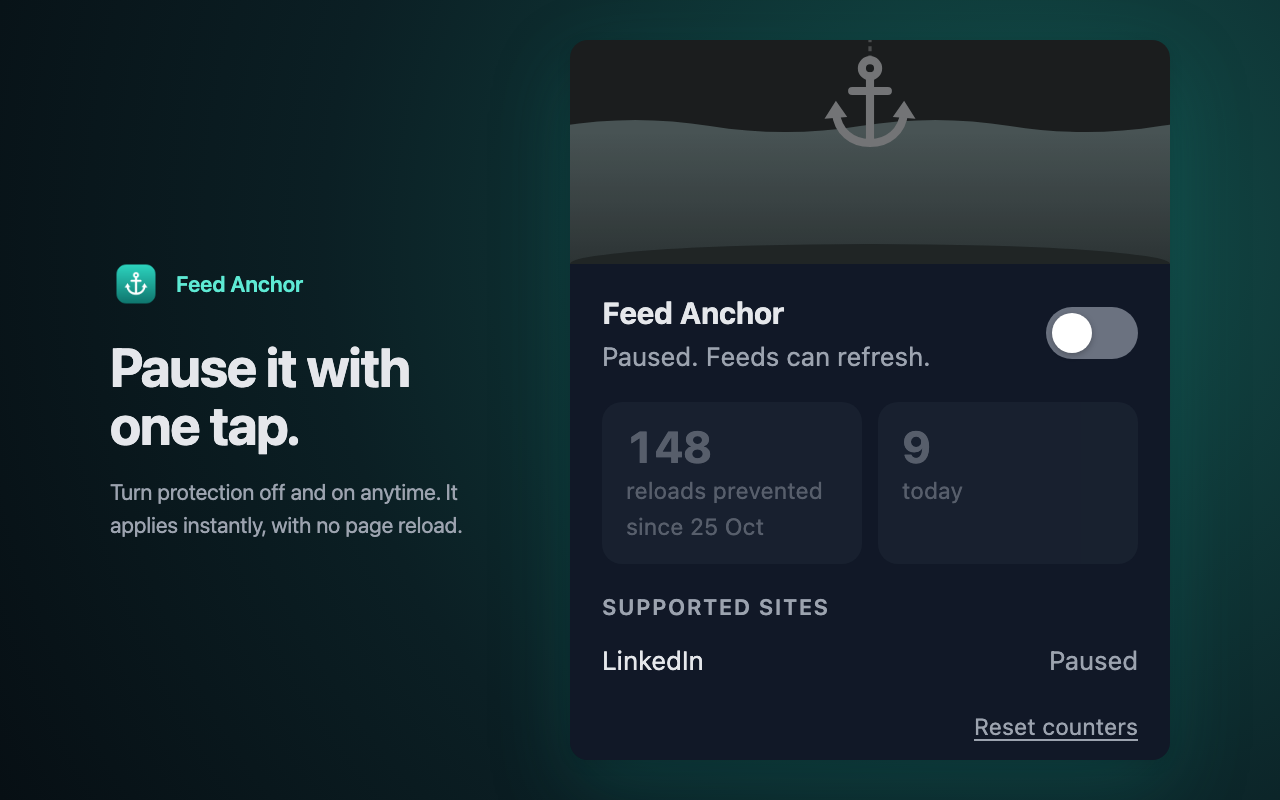
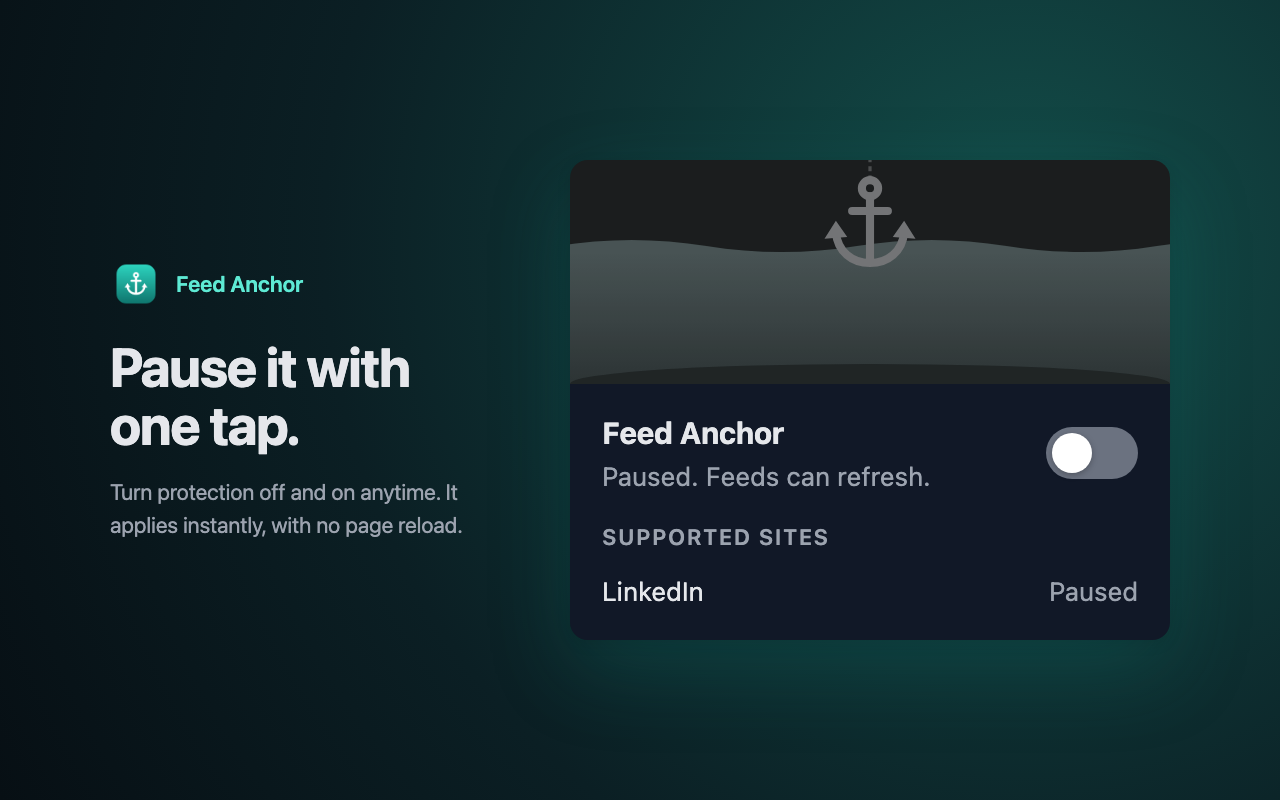
Remove counters: they counted tab returns, not actual reloads
The extension can't tell whether a site would have reloaded, so the
'reloads prevented' number was misleading. The popup now shows only the
on/off switch and protected tabs; the badge shows OFF while paused.
Only the on/off setting is stored. Old stats are cleared on update.

diff --git a/src/background.js b/src/background.js
@@ -1,57 +1,18 @@
 importScripts("sites.js");
 
-const BRAND = "#0f766e";
 const MATCHES = SITES.map((s) => s.match);
-
-const fresh = () => ({ since: Date.now(), returns: 0, byDay: {} });
-const today = () => new Date().toLocaleDateString("en-CA");
 
 async function isEnabled() {
   const { enabled } = await chrome.storage.local.get("enabled");
   return enabled !== false;
 }
 
-// Serialize writes so quick events don't overwrite each other
-let queue = Promise.resolve();
-function mutate(fn) {
-  queue = queue.then(async () => {
-    const { stats = fresh() } = await chrome.storage.local.get("stats");
-    fn(stats);
-    const days = Object.keys(stats.byDay).sort();
-    while (days.length > 30) delete stats.byDay[days.shift()];
-    await chrome.storage.local.set({ stats });
-  }).catch(console.error);
-  return queue;
-}
-
+// The badge only appears while paused, as a reminder that protection is off
 async function updateBadge() {
-  const [{ stats }, enabled] = await Promise.all([chrome.storage.local.get("stats"), isEnabled()]);
-  if (!enabled) {
-    await chrome.action.setBadgeText({ text: "OFF" });
-    await chrome.action.setBadgeBackgroundColor({ color: "#9ca3af" });
-    return;
-  }
-  const n = stats ? stats.returns : 0;
-  await chrome.action.setBadgeText({ text: !n ? "" : n > 999 ? "1k+" : String(n) });
-  await chrome.action.setBadgeBackgroundColor({ color: BRAND });
+  const on = await isEnabled();
+  await chrome.action.setBadgeText({ text: on ? "" : "OFF" });
+  await chrome.action.setBadgeBackgroundColor({ color: "#9ca3af" });
 }
-
-chrome.runtime.onMessage.addListener((msg, sender, sendResponse) => {
-  if (msg.kind === "return") {
-    isEnabled().then((on) => {
-      if (!on) return;
-      mutate((s) => {
-        s.returns++;
-        const d = today();
-        s.byDay[d] = (s.byDay[d] || 0) + 1;
-      });
-    });
-  } else if (msg.kind === "reset") {
-    queue = queue.then(() => chrome.storage.local.set({ stats: fresh() }));
-    queue.then(() => sendResponse({ ok: true }));
-    return true;
-  }
-});
 
 // Keep Chrome's Memory Saver from unloading supported tabs while active
 function setDiscardable(tab, discardable) {
@@ -72,9 +33,10 @@ chrome.tabs.onUpdated.addListener(async (tabId, info, tab) => {
 });
 
 chrome.storage.onChanged.addListener((changes, area) => {
-  if (area !== "local") return;
-  if (changes.enabled) applyToAllTabs();
-  if (changes.enabled || changes.stats) updateBadge();
+  if (area === "local" && changes.enabled) {
+    applyToAllTabs();
+    updateBadge();
+  }
 });
 
 async function init() {
@@ -82,4 +44,8 @@ async function init() {
   await updateBadge();
 }
 chrome.runtime.onStartup.addListener(init);
-chrome.runtime.onInstalled.addListener(init);
+chrome.runtime.onInstalled.addListener(async () => {
+  // Counters from earlier versions are no longer used
+  await chrome.storage.local.remove("stats");
+  await init();
+});

diff --git a/src/popup.js b/src/popup.js
@@ -12,9 +12,7 @@ function showState(on) {
   document.body.classList.toggle("paused", !on);
   toggle.setAttribute("aria-checked", String(on));
   toggle.setAttribute("aria-label", on ? "Protection on" : "Protection paused");
-  $("status").textContent = on
-    ? "Keeps your place in the feed."
-    : "Paused. Feeds can refresh.";
+  $("status").textContent = on ? "Keeps your place in the feed." : "Paused. Feeds can refresh.";
 }
 
 // Restart a CSS animation class on an element
@@ -36,19 +34,7 @@ anchor.addEventListener("animationend", (e) => {
   if (e.animationName === "drop" || e.animationName === "lift") anchor.classList.remove("drop", "lift");
 });
 
-async function renderStats() {
-  const { stats } = await chrome.storage.local.get("stats");
-  const s = stats || { since: Date.now(), returns: 0, byDay: {} };
-  const todayKey = new Date().toLocaleDateString("en-CA");
-  const since = new Date(s.since).toLocaleDateString(undefined, { month: "short", day: "numeric" });
-
-  $("returns").textContent = s.returns.toLocaleString();
-  $("today").textContent = ((s.byDay || {})[todayKey] || 0).toLocaleString();
-  $("returns-label").textContent = `reloads prevented since ${since}`;
-}
-
 async function renderSites() {
-  const list = $("sites");
   const rows = await Promise.all(
     SITES.map(async (site) => {
       const tabs = await chrome.tabs.query({ url: site.match });
@@ -58,7 +44,7 @@ async function renderSites() {
       return { name: site.name, text, on: enabled && tabs.length > 0 };
     })
   );
-  list.replaceChildren(
+  $("sites").replaceChildren(
     ...rows.map(({ name, text, on }) => {
       const li = document.createElement("li");
       const label = document.createElement("span");
@@ -80,28 +66,10 @@ toggle.addEventListener("click", async () => {
   await chrome.storage.local.set({ enabled });
 });
 
-$("reset").addEventListener("click", () => {
-  $("reset").hidden = true;
-  $("confirm").hidden = false;
-});
-$("reset-no").addEventListener("click", () => {
-  $("confirm").hidden = true;
-  $("reset").hidden = false;
-});
-$("reset-yes").addEventListener("click", async () => {
-  await chrome.runtime.sendMessage({ kind: "reset" });
-  $("confirm").hidden = true;
-  $("reset").hidden = false;
-});
-
-chrome.storage.onChanged.addListener((changes, area) => {
-  if (area === "local" && changes.stats) renderStats();
-});
-
 (async () => {
   const stored = await chrome.storage.local.get("enabled");
   enabled = stored.enabled !== false;
   showState(enabled); // no animation on open
   requestAnimationFrame(() => requestAnimationFrame(() => document.body.classList.remove("init")));
-  await Promise.all([renderStats(), renderSites()]);
+  await renderSites();
 })();

diff --git a/src/popup.html b/src/popup.html
@@ -170,25 +170,13 @@
   .switch[aria-checked="false"]::after { left: 3px; }
   .switch:focus-visible { outline: 2px solid var(--brand-strong); outline-offset: 2px; }
 
-  .stats { display: flex; gap: 8px; margin-bottom: 14px; transition: opacity .3s ease; }
-  .paused .stats { opacity: .5; }
-  .card { flex: 1; background: var(--card); border-radius: 10px; padding: 10px 12px; }
-  .card b { display: block; font-size: 22px; line-height: 1.1; color: var(--brand); font-variant-numeric: tabular-nums; }
-  .paused .card b { color: var(--muted); }
-  .card span { font-size: 11.5px; color: var(--muted); }
-
   h2 { font-size: 11px; text-transform: uppercase; letter-spacing: .06em; color: var(--muted); margin: 0 0 4px; font-weight: 600; }
-  ul { list-style: none; margin: 0 0 10px; padding: 0; }
+  ul { list-style: none; margin: 0; padding: 0; }
   li { display: flex; justify-content: space-between; padding: 6px 0; border-bottom: 1px solid var(--line); }
   li:last-child { border-bottom: 0; }
   li .state { color: var(--muted); }
   li .state.on { color: var(--brand); }
 
-  footer { display: flex; justify-content: flex-end; gap: 6px; font-size: 11.5px; color: var(--muted); }
-  .link { background: none; border: 0; padding: 0; font: inherit; color: var(--muted); cursor: pointer; text-decoration: underline; text-underline-offset: 2px; }
-  .link:hover { color: var(--text); }
-  .link.danger { color: #dc2626; }
-  [hidden] { display: none !important; }
   .init, .init * { transition: none !important; }
 </style>
 </head>
@@ -224,21 +212,8 @@
       <button class="switch" id="toggle" role="switch" aria-checked="true" aria-label="Protection on"></button>
     </div>
 
-    <div class="stats">
-      <div class="card"><b id="returns">0</b><span id="returns-label">reloads prevented</span></div>
-      <div class="card"><b id="today">0</b><span>today</span></div>
-    </div>
-
     <h2>Supported sites</h2>
     <ul id="sites"></ul>
-
-    <footer>
-      <button class="link" id="reset">Reset counters</button>
-      <span id="confirm" hidden>Reset counters?
-        <button class="link danger" id="reset-yes">Yes</button> ·
-        <button class="link" id="reset-no">No</button>
-      </span>
-    </footer>
   </main>
 
   <script src="sites.js"></script>

diff --git a/src/inject.js b/src/inject.js
@@ -14,17 +14,10 @@
   const realHasFocus = proto.hasFocus;
 
   const realState = () => {
-    try { return original.visibilityState.call(document); } catch (e) { return "unknown"; }
+    try { return original.visibilityState.call(document); } catch (e) { return "visible"; }
   };
 
-  const isTop = window === window.top;
   let active = true;
-  let lastState = realState();
-
-  // Only the main page reports, so embedded frames don't create duplicates
-  const sendReturn = () => {
-    if (isTop) window.postMessage({ __feedAnchor: "event", type: "return" }, location.origin);
-  };
 
   // Report visible/focused while active; pass through the real values while paused
   const fake = { hidden: false, webkitHidden: false, visibilityState: "visible", webkitVisibilityState: "visible" };
@@ -45,15 +38,7 @@
 
   // Swallow visibility events before the site's listeners see them
   const onVisibility = (e) => {
-    let cameBack = false;
-    if (e.type === "visibilitychange") {
-      const now = realState();
-      cameBack = lastState === "hidden" && now === "visible";
-      lastState = now;
-    }
-    if (!active) return;
-    e.stopImmediatePropagation();
-    if (cameBack) sendReturn();
+    if (active) e.stopImmediatePropagation();
   };
   for (const type of ["visibilitychange", "webkitvisibilitychange"]) {
     window.addEventListener(type, onVisibility, true);
@@ -71,6 +56,5 @@
   window.addEventListener("message", (e) => {
     if (e.source !== window || !e.data || e.data.__feedAnchor !== "state") return;
     active = e.data.active !== false;
-    lastState = realState();
   });
 })();

diff --git a/src/bridge.js b/src/bridge.js
@@ -1,5 +1,4 @@
-// Runs in the extension's isolated world. Passes the on/off setting to
-// inject.js and forwards "you came back to the tab" events to the background.
+// Runs in the extension's isolated world. Passes the on/off setting to inject.js.
 (() => {
   const postState = (enabled) =>
     window.postMessage({ __feedAnchor: "state", active: enabled !== false }, location.origin);
@@ -12,13 +11,4 @@
   } catch (err) {
     // Extension was reloaded; refresh the page to reconnect
   }
-
-  window.addEventListener("message", (e) => {
-    if (e.source !== window || !e.data || e.data.__feedAnchor !== "event") return;
-    try {
-      chrome.runtime.sendMessage({ kind: "return" }).catch(() => {});
-    } catch (err) {
-      // Extension was reloaded; refresh the page to reconnect
-    }
-  });
 })();

diff --git a/store/preview/stub.js b/store/preview/stub.js
@@ -1,14 +1,9 @@
 // Fake chrome.* API so popup.html can be rendered outside the extension
-// for store screenshots. Configure with ?enabled=0&returns=N&today=N&tabs=N&frame=drop:0.3
+// for store screenshots. Configure with ?enabled=0&tabs=N&frame=drop:0.3
 (() => {
   const q = new URLSearchParams(location.search);
   const num = (k, d) => (q.has(k) ? Number(q.get(k)) : d);
-  const since = Date.now() - 12 * 86400000;
-  const todayKey = new Date().toLocaleDateString("en-CA");
-  const data = {
-    enabled: q.get("enabled") !== "0",
-    stats: { since, returns: num("returns", 148), byDay: { [todayKey]: num("today", 9) } }
-  };
+  const data = { enabled: q.get("enabled") !== "0" };
   const pick = (k) => (typeof k === "string" ? { [k]: data[k] } : { ...data });
   window.chrome = {
     storage: {

diff --git a/store/listing.md b/store/listing.md
@@ -21,7 +21,7 @@ HOW IT WORKS
 • On supported sites, the page sees the tab as always visible and focused, so it has no reason to refresh.
 • Chrome's Memory Saver won't unload those tabs in the background.
 • Pause or resume with one tap. It applies instantly, with no page reload.
-• See how many reloads were prevented, in total and today.
+• See at a glance which tabs are protected.
 
 SUPPORTED SITES
 • LinkedIn
@@ -50,9 +50,9 @@ Stops supported social sites from automatically refreshing the feed when the use
 
 **Permission justifications:**
 
-- `storage` — Saves the user's on/off setting and local counters of prevented reloads. Nothing leaves the device.
+- `storage` — Saves the user's on/off setting locally. Nothing leaves the device.
 - Host permission `https://www.linkedin.com/*` — Needed to run the extension's content scripts on LinkedIn, which is the only site it acts on, and to mark open LinkedIn tabs as not auto-discardable so Chrome's Memory Saver doesn't reload them.
-- Content script in the page's main world (`inject.js`) — It runs inside LinkedIn's page context so LinkedIn sees the tab as always visible and focused. It overrides `document.hidden`, `document.visibilityState` and `document.hasFocus()`, and stops `visibilitychange` and window-level `focus`/`blur` events before the page's listeners receive them. This is what keeps the site from reloading the feed when the user returns. It does not read or change page content, and it sends nothing off the device. A second isolated-world script (`bridge.js`) only passes the on/off setting to it and forwards a "tab returned" count to the extension's background worker.
+- Content script in the page's main world (`inject.js`) — It runs inside LinkedIn's page context so LinkedIn sees the tab as always visible and focused. It overrides `document.hidden`, `document.visibilityState` and `document.hasFocus()`, and stops `visibilitychange` and window-level `focus`/`blur` events before the page's listeners receive them. This is what keeps the site from reloading the feed when the user returns. It does not read or change page content, and it sends nothing off the device. A second isolated-world script (`bridge.js`) only passes the user's on/off setting to it.
 
 **Remote code:** No, I am not using remote code. All JavaScript is packaged in the extension.
 

diff --git a/README.md b/README.md
@@ -38,8 +38,6 @@ Sites usually refresh on return by listening for the [Page Visibility API](https
 2. **Stops the events.** It catches `visibilitychange` and window-level `focus`/`blur` events before the site's listeners see them. Focus events on inputs and other elements are left alone.
 3. **Keeps the tab loaded.** It marks supported tabs as not auto-discardable, so Chrome's Memory Saver doesn't unload them in the background.
 
-When you come back to the tab, `inject.js` counts it as a prevented reload. `bridge.js` forwards that to the background worker, which keeps the counters and badge.
-
 The popup switch turns all of this off and on live. When it's off, the page sees the real visibility and focus values again and tabs can be discarded normally.
 
 ```
@@ -47,20 +45,20 @@ src/
   manifest.json   Manifest V3
   sites.js        list of supported sites
   inject.js       page-context script (visibility/focus overrides)
-  bridge.js       passes the on/off setting in and events out
-  background.js   counters, badge, Memory Saver protection
+  bridge.js       passes the on/off setting to inject.js
+  background.js   Memory Saver protection, OFF badge
   popup.html/js   the popup UI
 ```
 
 ## Privacy
 
-There is no data collection, network requests, analytics or remote code. The on/off setting and the counters stay in local extension storage. See [PRIVACY.md](PRIVACY.md).
+There is no data collection, network requests, analytics or remote code. The only thing stored is the on/off setting, in local extension storage. See [PRIVACY.md](PRIVACY.md).
 
 ## Permissions
 
 | Permission | Why |
 | --- | --- |
-| `storage` | Saves the on/off setting and counters on your device. |
+| `storage` | Saves the on/off setting on your device. |
 | Access to supported sites (`linkedin.com`) | Runs the scripts above and keeps those tabs from being discarded. |
 
 ## Development

diff --git a/PRIVACY.md b/PRIVACY.md
@@ -4,9 +4,9 @@ _Last updated: November 6, 2026_
 
 Feed Anchor does not collect, store, sell or transmit any personal data.
 
-- **What is stored:** an on/off setting and simple counters (how many feed reloads were prevented, per day for the last 30 days). They are kept only on your device in Chrome's local extension storage (`chrome.storage.local`).
+- **What is stored:** only your on/off setting, kept on your device in Chrome's local extension storage (`chrome.storage.local`).
 - **What is sent:** nothing. The extension makes no network requests and has no analytics, tracking, ads or remote code.
 - **Page content:** the extension does not read, record or change the content of the pages you visit. On supported sites it only changes how the page sees tab visibility and window focus.
-- **Removing data:** click "Reset counters" in the popup, or uninstall the extension, which deletes everything it stored.
+- **Removing data:** uninstall the extension, which deletes the setting.
 
 Questions: open an issue at https://github.com/OWNER/REPO/issues.

diff --git a/CONTRIBUTING.md b/CONTRIBUTING.md
@@ -17,7 +17,7 @@ Issues and pull requests are welcome.
 ## Testing a change
 
 1. Load `src/` unpacked from `chrome://extensions` (Developer mode), then click the reload icon after each change.
-2. Open the site, scroll down the feed, switch to another tab for a few seconds and come back. The feed should not refresh, and the badge count should go up.
+2. Open the site, scroll down the feed, switch to another tab for a few seconds and come back. The feed should not refresh.
 3. Turn the switch off in the popup. Without reloading the page, switch away and back: the site should behave normally (it may refresh). Turn it on again and check that protection resumes.
 4. In `chrome://discards`, protected tabs should show **Auto Discardable** unchecked while on, and checked while off.
 

diff --git a/CHANGELOG.md b/CHANGELOG.md
@@ -5,7 +5,8 @@
 First public release, renamed from "LinkedIn No Auto-Reload" to **Feed Anchor**.
 
 - On/off switch in the popup that applies instantly, with no page reload.
-- New popup showing reloads prevented (total and today) and protected tabs per site.
+- New popup showing protection status and protected tabs per site. The old event counters were removed, because they counted tab returns, not actual reloads.
+- Toolbar badge shows "OFF" while paused.
 - Anchor animation when turning protection on or off. It respects "reduce motion".
 - Light and dark themes.
 - Removed the `tabs` permission; the extension now only asks for storage plus access to supported sites.
